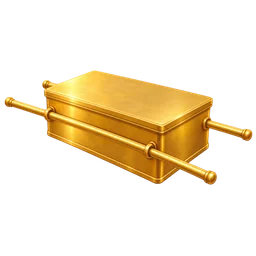
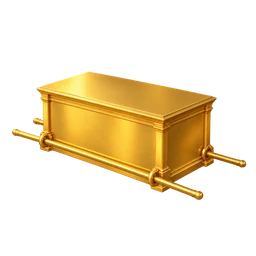
Josua: ark correction, stage pictures 4 and 8 repainted with four priests (variant a) and the new Lade memory card; downloadMb measured (13)

Changed region(s): [[0.0, 0.25, 1.0, 0.7812]]

diff --git a/src/data/adventures/josua.ts b/src/data/adventures/josua.ts
@@ -154,7 +154,7 @@ export const josua: Journey = {
   title: 'Josua',
   subtitle: 'Mut für das neue Land',
   age: '8-10',
-  downloadMb: 11, // etwa 10 bis 11 MB gerechnet am 21.10.2026 mit der neuen Karte v3 (vier Stücke zusammen 5,5 MB, ohne die noch fehlenden Bilder und Aufnahmen)
+  downloadMb: 13, // gemessen am 21.10.2026 mit den eigenen Etappenbildern (Variante a), der Karte v3 und den gemalten Spielbildern; ohne die noch fehlenden Aufnahmen
   medal: 'images/abenteuer/josua/medaille-v2.webp', // Die Posaune von Jericho (Widderhorn vor der Stadtmauer, Goldring)
   // Geschenk-Ausmalbild: Die Posaunen von Jericho (sieben Priester mit Widderhörnern auf dem Weg zur Stadtmauer, Konturzeichnung)
   gift: { title: 'Die Posaunen von Jericho', image: `${PICS}geschenk.webp` },
